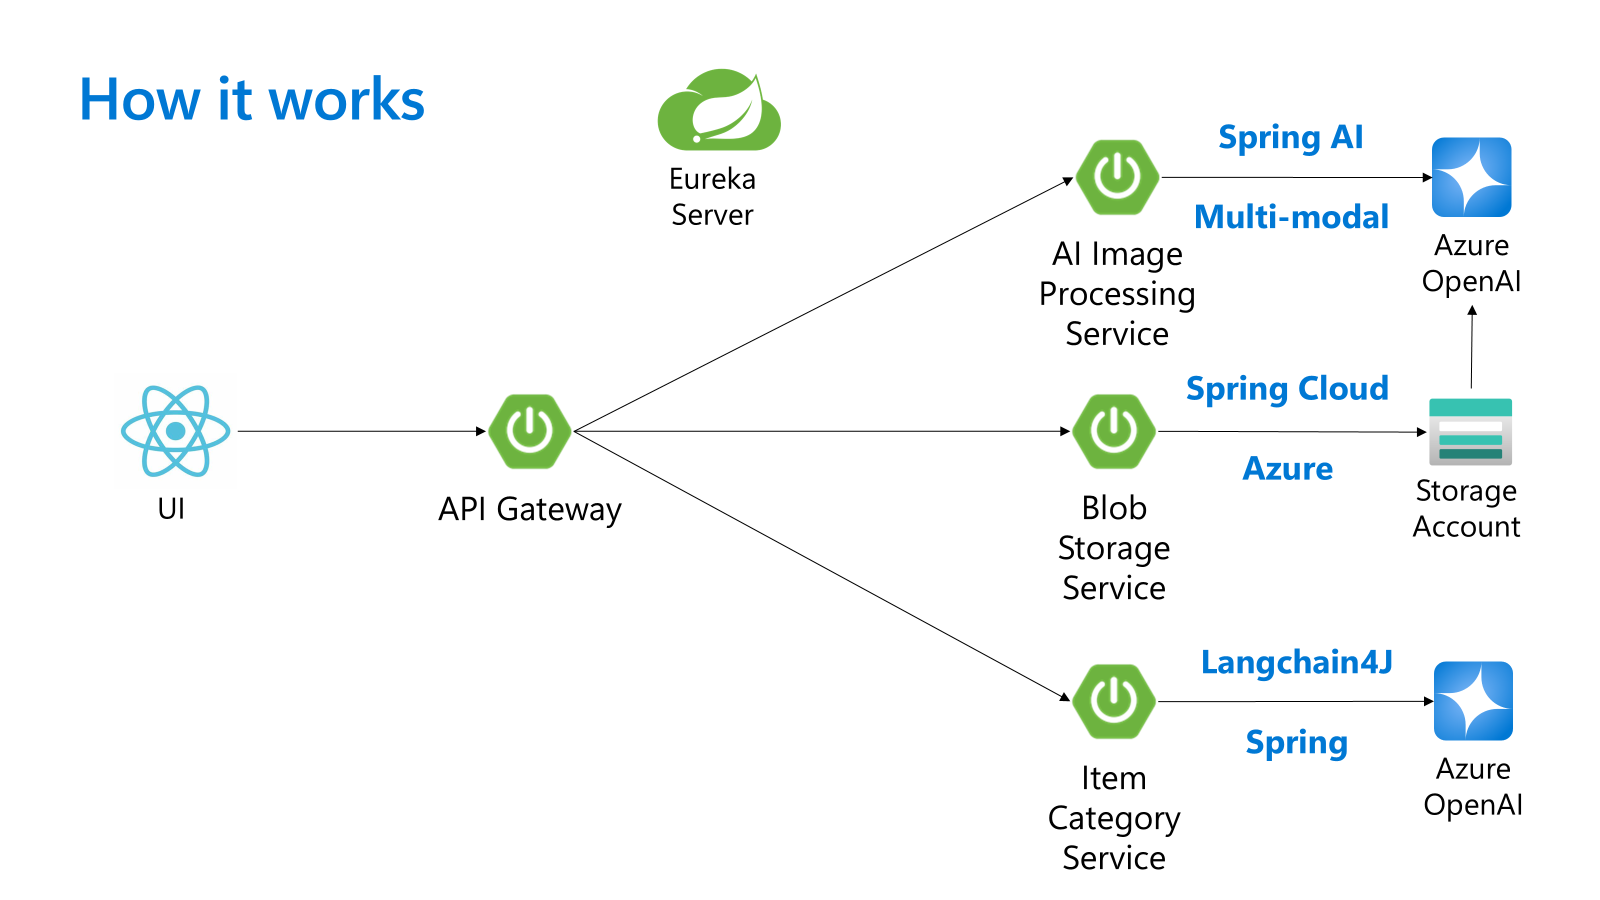
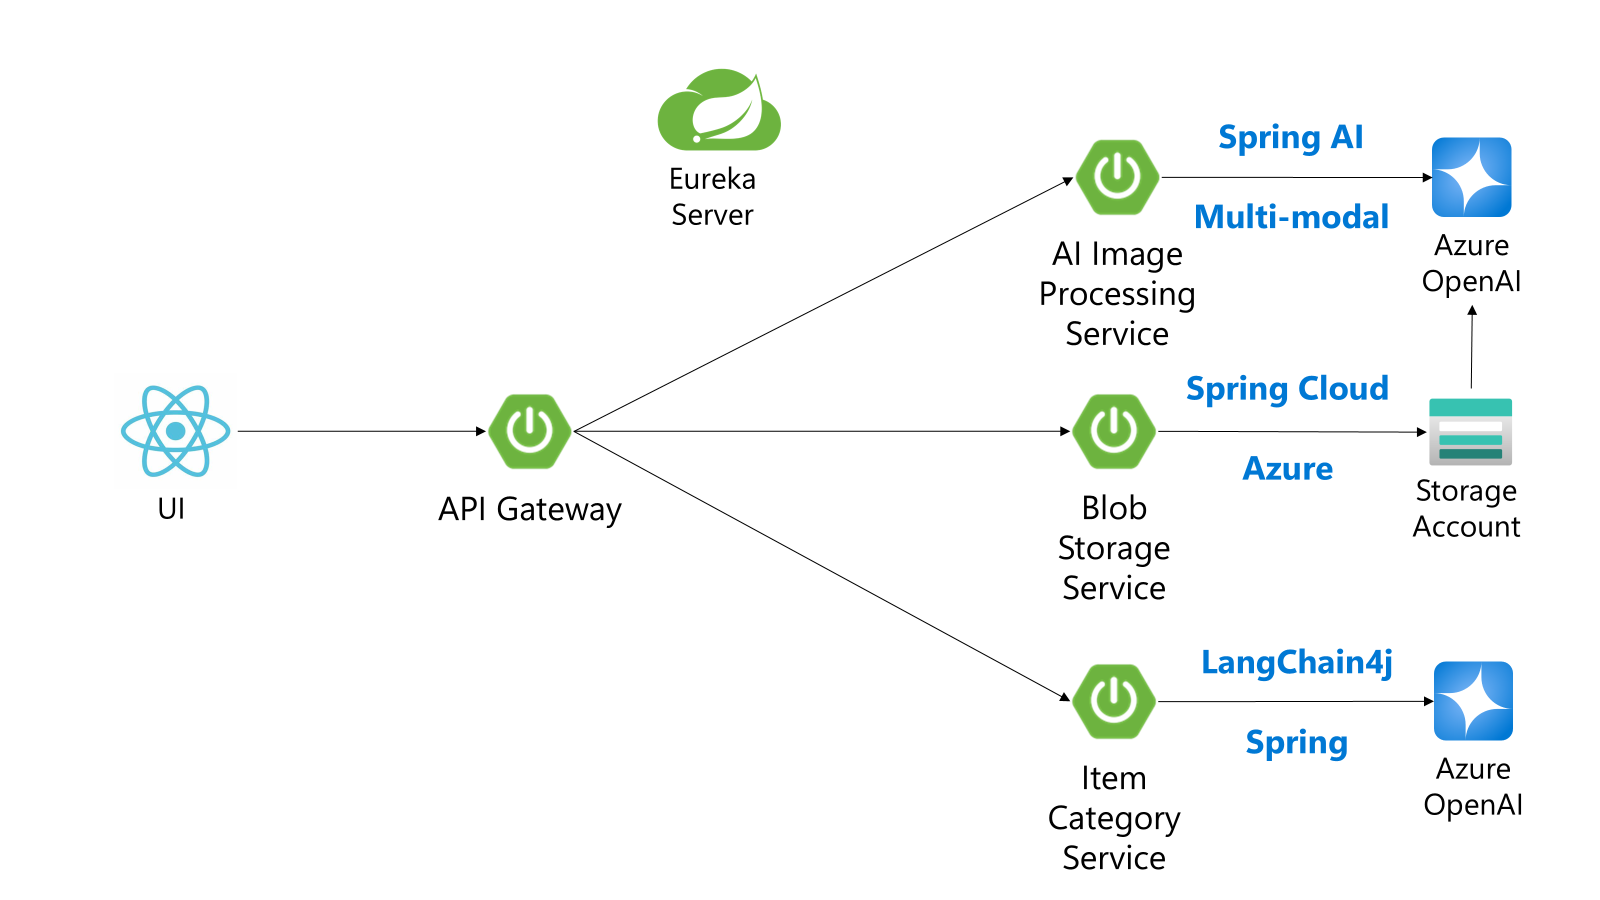
Update documentation to align with comments

Changed region(s): [[0.0312, 0.0933, 0.2812, 0.1556], [0.7812, 0.7156, 0.875, 0.7467]]

diff --git a/README.md b/README.md
@@ -8,7 +8,7 @@ The functional architecture of the application is as follows:
 - `src/eureka-server`: The Eureka Server of the application. It is simple Eureka Server that is only required for local development.
 - `src/ai-image-processing-service`: The AI Image Processing Service of the application. It is a Spring Boot application that uses `Spring AI` to generate the product information based on the image.
 - `src/blob-storage-service`: The Blob Storage Service of the application. It is a Spring Boot application that uses `Spring Cloud Azure` to store the images in Azure Blob Storage. It also provide the generation of the image URL with a SAS token for the `ai-image-processing-service`.
-- `src/item-category-service`: The Item Category Service of the application. It is a Spring Boot application that provides the categories of the items that can be sold in the shop. It uses `Spring Data JPA` to store the categories in a `H2` database. It is infused with AI and uses `LangChain4J` to generate the categories based on the product description.
+- `src/item-category-service`: The Item Category Service of the application. It is a Spring Boot application that provides the categories of the items that can be sold in the shop. It uses `Spring Data JPA` to store the categories in a `H2` database. It is infused with AI and uses `LangChain4j` to generate the categories based on the product description.
 - `src/java-ai-common`: A common module that is used by all the services. It contains the common DTOs.
 
 ![Functional Architecture](./media/functional-architecture.png)
@@ -40,7 +40,7 @@ The following resources will be created as represented in the diagram below:
 
 ![Azure Architecture](./media/azure-architecture.png)
 
-### Fast deployment
+### Quick start
 
 To deploy the AI Shop to Azure, you need only to use the provided `deploy.sh` script. The script will create the necessary resources in Azure and deploy the services to Azure Container Apps. Follow the instructions below:
 
@@ -62,6 +62,105 @@ The deployment script has 3 main steps:
 1. Create the resource group and the Container Registry
 2. Build the images and push them to the Container Registry
 3. Deploy the rest of the infrastructure and the services to Azure Container Apps
+
+### Manual deployment
+
+If you want to deploy the AI Shop manually, follow the instructions below:
+
+1. Set the environment variables:
+
+    ```bash
+    LOCATION=<your-location>
+    RESOURCE_GROUP_NAME=<your-resource-group-name>
+    WORKLOAD_NAME=<your-workload-name>
+    ```
+
+2. Create the resource group:
+
+    ```bash
+    az group create --name $RESOURCE_GROUP_NAME --location $LOCATION
+    ```
+
+3. Create the Azure Container Registry:
+
+    ```bash
+    CONTAINER_REGISTRY_DEPLOYMENT_NAME=$WORKLOAD_NAME-$ENVIRONMENT_NAME-acr-deployment
+    az deployment group create \
+        --name $CONTAINER_REGISTRY_DEPLOYMENT_NAME \
+        --resource-group $RESOURCE_GROUP_NAME \
+        --template-file infra/deploy-container-registry.bicep \
+        --parameters workloadName=$WORKLOAD_NAME \
+        --parameters environmentName=$ENVIRONMENT_NAME
+    ```
+
+4. Build the images and push them to the Azure Container Registry:
+
+    ```bash
+    CONTAINER_REGISTRY_NAME="$(az deployment group show --name $CONTAINER_REGISTRY_DEPLOYMENT_NAME --resource-group $RESOURCE_GROUP_NAME --query properties.outputs.containerRegistryName.value -o tsv | tr -d '\r' | sed -e 's/^[[:space:]]*//' -e 's/[[:space:]]*$//')"
+    TAG=1.1.0
+
+    az acr login --name $CONTAINER_REGISTRY_NAME
+
+    cd src/java-ai-common/common
+    ./mvnw clean install
+
+    cd ../../item-category-service
+    ./mvnw clean package
+    docker build -t $CONTAINER_REGISTRY_NAME.azurecr.io/item-category-service:$TAG .
+    docker push $CONTAINER_REGISTRY_NAME.azurecr.io/item-category-service:$TAG
+
+    cd ../ai-image-processing-service
+    ./mvnw clean package
+    docker build -t $CONTAINER_REGISTRY_NAME.azurecr.io/ai-image-processing-service:$TAG .
+    docker push $CONTAINER_REGISTRY_NAME.azurecr.io/ai-image-processing-service:$TAG
+
+    cd ../blob-storage-service
+    ./mvnw clean package
+    docker build -t $CONTAINER_REGISTRY_NAME.azurecr.io/blob-storage-service:$TAG .
+    docker push $CONTAINER_REGISTRY_NAME.azurecr.io/blob-storage-service:$TAG
+
+    cd ../api-gateway
+    ./mvnw clean package
+    docker build -t $CONTAINER_REGISTRY_NAME.azurecr.io/api-gateway:$TAG .
+    docker push $CONTAINER_REGISTRY_NAME.azurecr.io/api-gateway:$TAG
+
+    cd ../ai-shop-ui
+    docker build -t $CONTAINER_REGISTRY_NAME.azurecr.io/ai-shop-ui:$TAG .
+    docker push $CONTAINER_REGISTRY_NAME.azurecr.io/ai-shop-ui:$TAG
+    ```
+
+5. Deploy the rest of the infrastructure and the services to Azure Container Apps:
+
+    ```bash
+    cd ../..
+    DEPLOYMENT_NAME=$WORKLOAD_NAME-$ENVIRONMENT_NAME-deployment
+    az deployment group create \
+    --name $DEPLOYMENT_NAME \
+    --resource-group $RESOURCE_GROUP_NAME \
+    --template-file infra/deploy.bicep \
+    --parameters imageTag=$TAG \
+    --parameters workloadName=$WORKLOAD_NAME \
+    --parameters environmentName=$ENVIRONMENT_NAME \
+    --parameters containerRegistryName="${CONTAINER_REGISTRY_NAME}"
+    ```
+
+6. Get the name of each Java Container App:
+
+    ```bash
+    API_GATEWAY_NAME="$(az deployment group show --name $DEPLOYMENT_NAME --resource-group $RESOURCE_GROUP_NAME --query properties.outputs.apiGatewayContainerAppName.value -o tsv | tr -d '\r' | sed -e 's/^[[:space:]]*//' -e 's/[[:space:]]*$//')"
+    AI_IMAGE_PROCESSING_SERVICE_NAME="$(az deployment group show --name $DEPLOYMENT_NAME --resource-group $RESOURCE_GROUP_NAME --query properties.outputs.imageProcessingServiceContainerAppName.value -o tsv | tr -d '\r' | sed -e 's/^[[:space:]]*//' -e 's/[[:space:]]*$//')"
+    BLOB_STORAGE_SERVICE_NAME="$(az deployment group show --name $DEPLOYMENT_NAME --resource-group $RESOURCE_GROUP_NAME --query properties.outputs.imageProcessingServiceContainerAppName.value -o tsv | tr -d '\r' | sed -e 's/^[[:space:]]*//' -e 's/[[:space:]]*$//')"
+    ITEM_CATEGORY_SERVICE_NAME="$(az deployment group show --name $DEPLOYMENT_NAME --resource-group $RESOURCE_GROUP_NAME --query properties.outputs.imageProcessingServiceContainerAppName.value -o tsv | tr -d '\r' | sed -e 's/^[[:space:]]*//' -e 's/[[:space:]]*$//')"
+    ```
+
+7. Update the runtime of each Java Container App to Java:
+
+    ```bash
+    az containerapp update --name $API_GATEWAY_NAME --resource-group $RESOURCE_GROUP_NAME --runtime java --enable-java-metrics
+    az containerapp update --name $AI_IMAGE_PROCESSING_SERVICE_NAME --resource-group $RESOURCE_GROUP_NAME --runtime java --enable-java-metrics
+    az containerapp update --name $BLOB_STORAGE_SERVICE_NAME --resource-group $RESOURCE_GROUP_NAME --runtime java --enable-java-metrics
+    az containerapp update --name $ITEM_CATEGORY_SERVICE_NAME --resource-group $RESOURCE_GROUP_NAME --runtime java --enable-java-metrics
+    ```
 
 ## Trademarks
 

diff --git a/src/ai-image-processing-service/README.md b/src/ai-image-processing-service/README.md
@@ -10,6 +10,15 @@ This service is responsible for processing images using AI models. It is a RESTf
 
 The service uses the Azure OpenAI API GPT-4o to generate the information based on the image. The information is then returned to the caller.
 
+## Prerequisites
+
+Easiest way to start is to [deploy a GitHub Codespace](https://github.com/codespaces/new/Azure-Samples/java-ai) as it contains all the prerequisites.
+
+If you deploy locally, you need to have the following installed:
+- [Java 17+](https://learn.microsoft.com/en-us/java/openjdk/download)
+- [Azure CLI](https://docs.microsoft.com/en-us/cli/azure/install-azure-cli)
+- [Docker](https://docs.docker.com/get-docker/) or [Podman](https://podman.io/getting-started/installation)
+
 ## Run locally
 
 To run the AI Image Processing Service locally, you need first to build the common module and then start the service. Follow the instructions below in the order they are presented:

diff --git a/src/item-category-service/README.md b/src/item-category-service/README.md
@@ -1,6 +1,6 @@
 # Item Category Service
 
-This service is responsible for providing the categories of the items that can be sold in the shop. It is a RESTful service that returns the categories based on the product description. The service uses the LangChain4J library to generate the categories based on the product information.
+This service is responsible for providing the categories of the items that can be sold in the shop. It is a RESTful service that returns the categories based on the product description. The service uses the LangChain4j library to generate the categories based on the product information.
 
 ## Run locally
 
